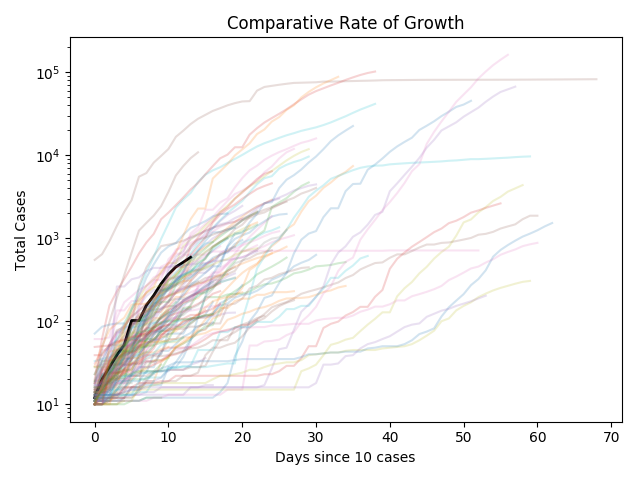
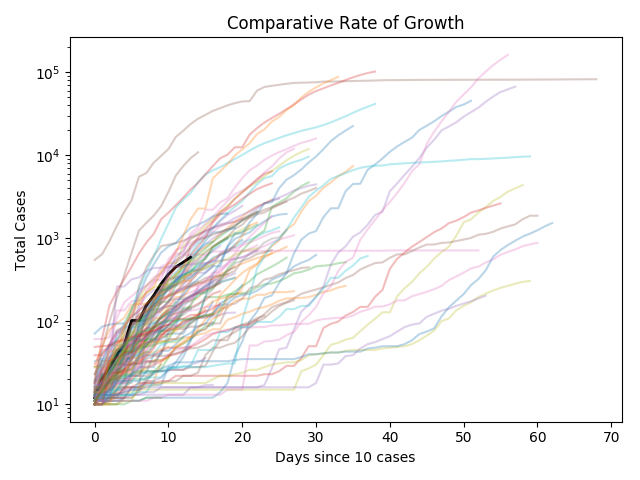
A few additions and updates

diff --git a/International/SomePlots.py b/International/SomePlots.py
@@ -33,7 +33,8 @@ plt.ylabel("Confirmed Cases")
 plt.xlabel("Date")
 plt.tight_layout()
 plt.savefig("NZvsWorld.png")
-
+plt.gca().set_yscale('linear')
+plt.savefig("NZvsWorldLinear.png")
 
 plt.figure()
 delta = t.diff()
@@ -41,7 +42,7 @@ delta = delta.rolling(7).sum()
 
 
 for country in t:
-    plt.loglog(t[country], delta[country], alpha=0.2)
+    plt.loglog(t[country], delta[country], alpha=0.3)
 plt.loglog(t[nz], delta[nz], color='k', linewidth=2)
 plt.title("Rate of Growth")
 plt.ylabel("New Cases")
@@ -54,7 +55,7 @@ plt.figure()
 for country in t:
     d_tmp = np.array(t[country])
     to_plot = d_tmp[d_tmp >= 10]
-    plt.semilogy(to_plot, alpha=0.2)
+    plt.semilogy(to_plot, alpha=0.3)
     if country == nz:
         plt.semilogy(to_plot, color='k', linewidth=2)
 plt.title("Comparative Rate of Growth")

diff --git a/README.md b/README.md
@@ -16,24 +16,24 @@ Let $$s, i, r, d$$ be the susceptible, infected, recovered, and dead fraction of
 
 #### Decay of the Susceptible
 
-$$ \frac{\text{d}s}{\text{d}t} = - \beta s(t) i(t) $$
+$$ \frac{\text{d}s}{\text{d}t} = - \beta\ s(t)\ i(t) $$
 
-The susceptible become infected at a rate proportional to the product of the susceptible fraction, and the infected fraction: if $$i = 0$$ or $$s = 0$$, then there is no infection, and the larger $$s$$ or $$i$$ is, the more likely infection is to occur. This is scaled by$$\beta$, which is a parameter governed by how easily transmissible the virus is, and (hopefully) effected by things like lock-down.
+The susceptible become infected at a rate proportional to the product of the susceptible fraction, and the infected fraction: if $$i = 0$$ or $$s = 0$$, then there is no infection, and the larger $$s$$ or $$i$$ is, the more likely infection is to occur. This is scaled by $$\beta$$, which is a parameter governed by how easily transmissible the virus is, and (hopefully) effected by things like lock-down.
 
 
 #### Growth of the Infected, and decay - recovery or death
 
 $$ \frac{\text{d}i}{\text{d}t} = \beta\ s(t)\ i(t) - \gamma\ i(t) - \delta\ i(t) $$
 
-The infected population increased due to the process described above, and decreases as infected people either recover (at a rate $$\gamma$$) or die (at rate $$\delta$$).
+The infected population increases due to the process described above, and decreases as infected people either recover (at a rate $$\gamma$$) or die (at rate $$\delta$$).
 
 The parameter $$\gamma$$ is approximately the inverse of the recovery time. People have estimated the recovery time from COVID-19 to be anywhere between 2 and 30 days, which isn't very useful, but most reports are around the two week mark, so for this model, we take $$\gamma = 1/14$$.
 
-The mortality rate (fraction of fatal infections) governs $$\delta$. The mortality rate is extremely hard to estimate, as one must know both the number of fatalities from the disease (which is generally easy to measure), and the total number of cases, which is much harder to measure. Not all infected people are tested, and are therefore not counted as having the disease. This is a mechanism by which is is easy to *overestimate* the mortality rate of the infection. The mortality rate is of course strongly effected by available medical care. Testing lots and testing early has two advantages:
+The mortality rate (fraction of fatal infections) governs $$\delta$$. The mortality rate is extremely hard to estimate, as one must know both the number of fatalities from the disease (which is generally easy to measure), and the total number of cases, which is much harder to measure. Not all infected people are tested, and are therefore not counted as having the disease. This is a mechanism by which it is easy to *overestimate* the mortality rate of the infection. The mortality rate is of course strongly effected by available medical care. Testing lots and testing early has two advantages:
  - You can prepare
    - by quarantining people who have no/little symptoms but can infect others to reduce overall infected population (reducing the $$\beta$$ parameter)
-   - get your medical care systems ready to deal with the symptomatic cases where it is needed resulting in (hopefully) fewer deaths.
- - Your country gets the benefit of reporting a low mortality rate, because you have have a better (larger) idea of how many people actually have the disease.
+   - by getting your medical care systems ready to deal with the symptomatic cases where it is needed -  resulting in (hopefully) fewer deaths.
+ - Your country gets the benefit of reporting a low mortality rate, because you have a better (larger) idea of how many people actually have the disease.
  
 The former is of course much less important for your population, but is interesting for the purpose of getting the best handle on the data.
 
@@ -58,7 +58,7 @@ The other interesting parameters to extract are:
  
  $$ T_c = \frac{1}{\beta}, $$
  
- - the time recovery time as discussed above,
+ - the recovery time as discussed above,
  
  $$ T_r = \frac{1}{\gamma} $$
  
@@ -89,11 +89,15 @@ The latter has a large number of cases of infection, and subsequently deaths, so
 
 Moving away from the simulations, we can take a look at some real data. Firstly, let's look at some summary statistics of New Zealand's data. Note that the numbers for the last day on these plots represent a less than 24 hour period, and are hence not representative.
 
+#### New Cases
+
 ![NZ's new cases per day](https://raw.githubusercontent.com/mchilcott/TrackingCOVID19/master/NZModel/NZCasesPerDay.png)
 
 ![NZ's Total Cases, Linear Scale](https://raw.githubusercontent.com/mchilcott/TrackingCOVID19/master/NZModel/NZCases.png)
 
 ![NZ's Total Cases, Log Scale](https://raw.githubusercontent.com/mchilcott/TrackingCOVID19/master/NZModel/NZCasesLog.png)
+
+#### Regions
 
 Especially, consider this split up by District Health Board.
 
@@ -103,15 +107,25 @@ And taking into account how many people are actually serviced by that District H
 ![NZ's Total Cases, By DHB Per Capita](https://raw.githubusercontent.com/mchilcott/TrackingCOVID19/master/NZModel/NZByDHBPerCap.png)
 
 ### NZ vs The World
-In each of these graphs, New Zealand's state is shown in black. (GO THE BLACKS! Oh wait... no sport in a lock-down.)
+In each of these graphs, New Zealand's state is shown in black. (GO THE ALL BLACKS! Oh wait... no sport in a lock-down.)
 
 ![International Cases, Log Scale](https://raw.githubusercontent.com/mchilcott/TrackingCOVID19/master/International/NZvsWorld.png)
 
-But more interestingly, consider our growth rate. Firstly, let's take a look at the trajectory we're taking compared to other countries since each hit 10 cases.
+Note that this is a log scale, so that we can see what's going on. On a linear plot, we see the small scale of our infection compared to the rest of the world. China is the early riser, and then the US, Italy and Spain surpass their reported case number, with the US in the lead for case number, and still sky-rocketing.
+
+![International Cases, from 10 cases](https://raw.githubusercontent.com/mchilcott/TrackingCOVID19/master/International/NZvsWorldLinear.png)
+
+#### Growth
+
+Consider our growth rate. Firstly, let's take a look at the trajectory we're taking compared to other countries since each hit 10 cases.
 
 ![International Cases, from 10 cases](https://raw.githubusercontent.com/mchilcott/TrackingCOVID19/master/International/Comparason.png)
 
-And finally, another check to see if we're getting away from exponential growth. The following figure shows the number of new cases over the previous week, against the total number of cases. This is a straight rising line for exponential growth (thinking back to a little calculus: the derivative of exp(x) is exp(x), so the rate of change of exponential growth is proportional to the exponential growth itself). What we really want to see is something other than a straight line going up. We want to see it go drastically down, to zero new cases.
+And finally, another check to see if we're getting away from exponential growth. The following figure shows the number of new cases over the previous week, against the total number of cases. This is a straight rising line for exponential growth.
+
+(thinking back to a little calculus: $$ \frac{\text{d}}{\text{d}x} e^x = e^x $$, so the rate of change of exponential growth is proportional to the exponential growth itself).
+
+What we really want to see is something other than a straight line going up. We want to see it drop drastically, to zero new cases. This graph is pessimistic however, as it uses the previous week of growth (to get a smooth curve), so there is some delay in showing the deviation from exponential growth.
 
 ![International Cases, from 10 cases](https://raw.githubusercontent.com/mchilcott/TrackingCOVID19/master/International/ExponentialGrowth.png)
 
